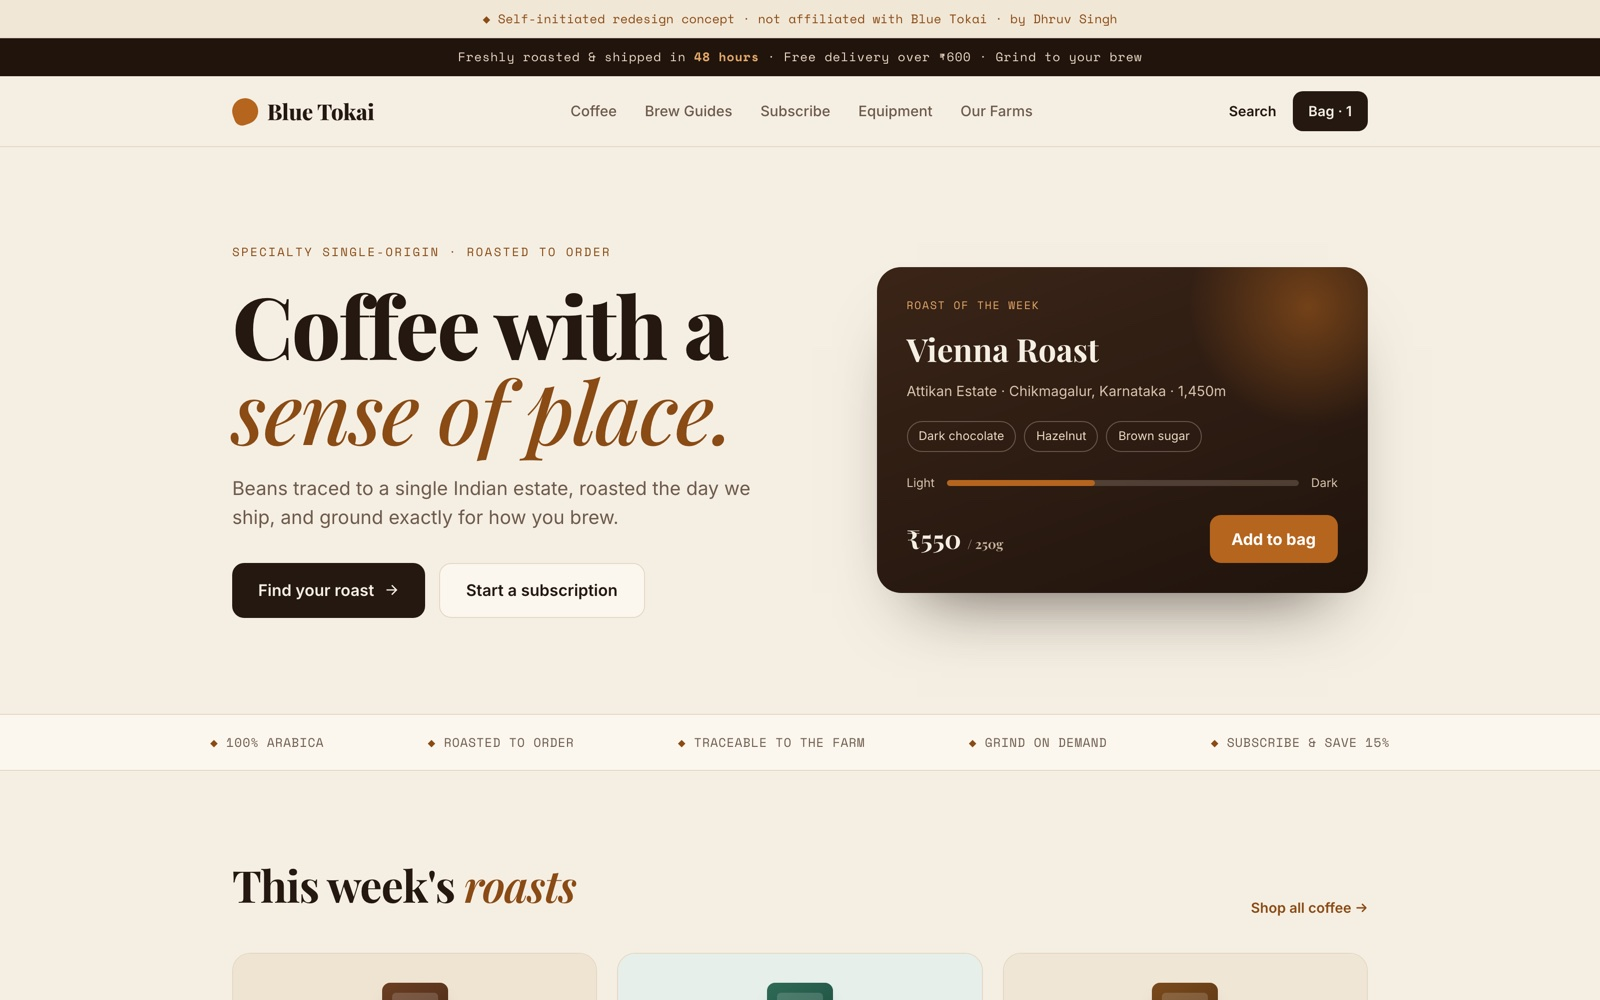
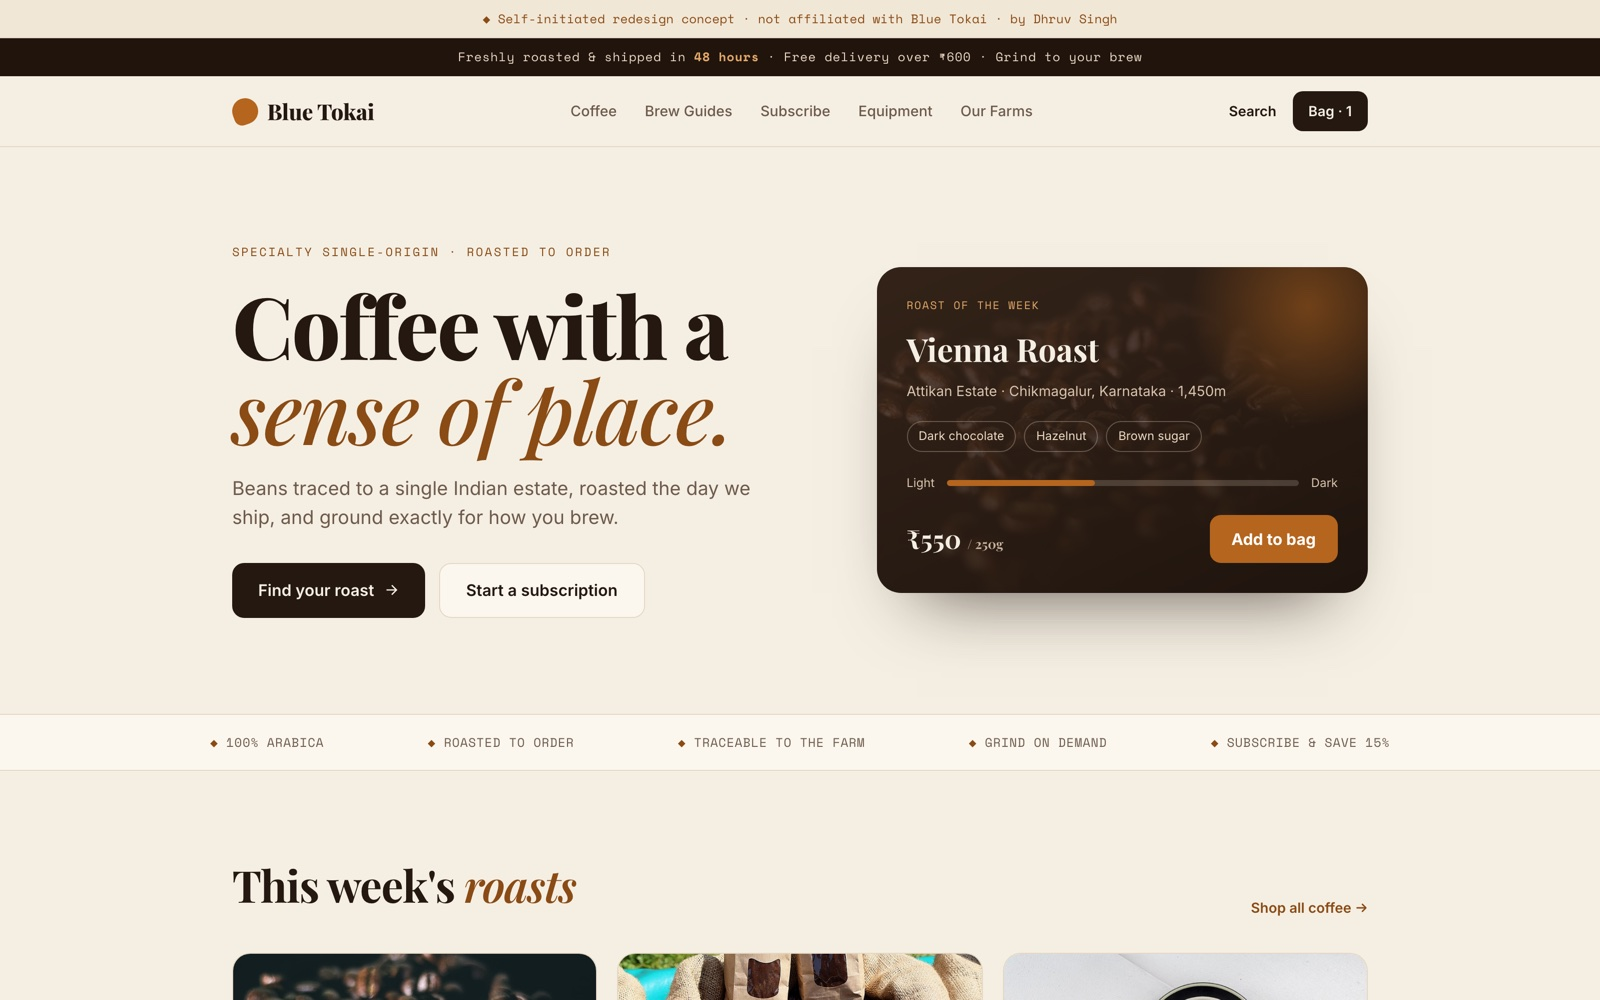
Blue Tokai mockup: real coffee photography in roast cards + hero
- Freely-licensed Wikimedia Commons coffee photos replace gradient placeholders
- Regenerated after-bluetokai card image for the work grid + case study

Changed region(s): [[0.125, 0.93, 0.625, 1.0], [0.6875, 0.93, 0.7812, 1.0]]

diff --git a/mockup-bluetokai.html b/mockup-bluetokai.html
@@ -47,7 +47,7 @@
   .btn{display:inline-flex;align-items:center;gap:9px;font-weight:600;font-size:16px;padding:14px 26px;border-radius:12px}
   .btn-p{background:var(--ink);color:var(--cream)}
   .btn-g{border:1px solid var(--line);background:var(--surface)}
-  .roast-hero{background:linear-gradient(160deg,#3a2417,#20140d);border-radius:24px;padding:30px;color:var(--cream);position:relative;overflow:hidden;box-shadow:0 40px 70px -40px rgba(32,20,13,.7)}
+  .roast-hero{background:linear-gradient(155deg,rgba(58,36,23,.82),rgba(32,20,13,.94)),url(assets/coffee-2.jpg);background-size:cover;background-position:center;border-radius:24px;padding:30px;color:var(--cream);position:relative;overflow:hidden;box-shadow:0 40px 70px -40px rgba(32,20,13,.7)}
   .roast-hero::after{content:"";position:absolute;width:260px;height:260px;border-radius:50%;background:radial-gradient(circle,rgba(181,101,29,.5),transparent 65%);top:-90px;right:-70px}
   .roast-hero .tag{font-family:var(--mono);font-size:11px;letter-spacing:.1em;text-transform:uppercase;color:#E3A867}
   .roast-hero h2{font-family:var(--serif);font-size:32px;font-weight:700;margin:10px 0 6px}
@@ -76,11 +76,9 @@
   @media(max-width:520px){.roasts{grid-template-columns:1fr}}
   .roast{background:var(--surface);border:1px solid var(--line);border-radius:18px;overflow:hidden;transition:transform .25s var(--ease),box-shadow .25s}
   .roast:hover{transform:translateY(-4px);box-shadow:0 22px 40px -26px rgba(32,20,13,.4)}
-  .roast .top{height:150px;display:grid;place-items:center;position:relative}
-  .roast .bagart{width:66px;height:92px;border-radius:8px 8px 10px 10px;position:relative;box-shadow:0 12px 22px -10px rgba(0,0,0,.4)}
-  .roast .bagart::before{content:"";position:absolute;top:10px;left:10px;right:10px;height:20px;border-radius:4px;background:rgba(255,255,255,.16)}
-  .b1{background:linear-gradient(150deg,#6b3f22,#3a2114)}.b2{background:linear-gradient(150deg,#2f6b57,#123c30)}.b3{background:linear-gradient(150deg,#7a4a1c,#4a2a10)}
-  .t1{background:#efe4d2}.t2{background:#e6efe9}.t3{background:#f0e6d6}
+  .roast .top{height:190px;overflow:hidden}
+  .roast .top img{width:100%;height:100%;object-fit:cover;display:block;transition:transform .45s var(--ease)}
+  .roast:hover .top img{transform:scale(1.06)}
   .roast .body{padding:18px}
   .roast .lvl{font-family:var(--mono);font-size:10.5px;letter-spacing:.08em;text-transform:uppercase;color:var(--accent-d)}
   .roast h3{font-family:var(--serif);font-size:20px;font-weight:600;margin:6px 0 4px}
@@ -149,13 +147,13 @@
   <section class="blk"><div class="wrap">
     <div class="blk-head"><h2>This week's <em>roasts</em></h2><a>Shop all coffee →</a></div>
     <div class="roasts">
-      <div class="roast"><div class="top t1"><div class="bagart b1"></div></div>
+      <div class="roast"><div class="top"><img src="assets/coffee-2.jpg" alt="Roasted coffee beans" loading="lazy"></div>
         <div class="body"><div class="lvl">Medium roast</div><h3>Silver Oak</h3><div class="o">Blueberry · Honey · Citrus</div>
           <div class="foot"><span class="p">₹500</span><button class="a">Add · 250g</button></div></div></div>
-      <div class="roast"><div class="top t2"><div class="bagart b2"></div></div>
+      <div class="roast"><div class="top"><img src="assets/coffee-1.jpg" alt="Bags of roasted coffee beans" loading="lazy"></div>
         <div class="body"><div class="lvl">Light roast</div><h3>Microlot 22</h3><div class="o">Jasmine · Peach · Cane sugar</div>
           <div class="foot"><span class="p">₹680</span><button class="a">Add · 250g</button></div></div></div>
-      <div class="roast"><div class="top t3"><div class="bagart b3"></div></div>
+      <div class="roast"><div class="top"><img src="assets/coffee-3.jpg" alt="Cup of espresso coffee" loading="lazy"></div>
         <div class="body"><div class="lvl">Dark roast</div><h3>Vienna</h3><div class="o">Dark chocolate · Hazelnut</div>
           <div class="foot"><span class="p">₹550</span><button class="a">Add · 250g</button></div></div></div>
     </div>
